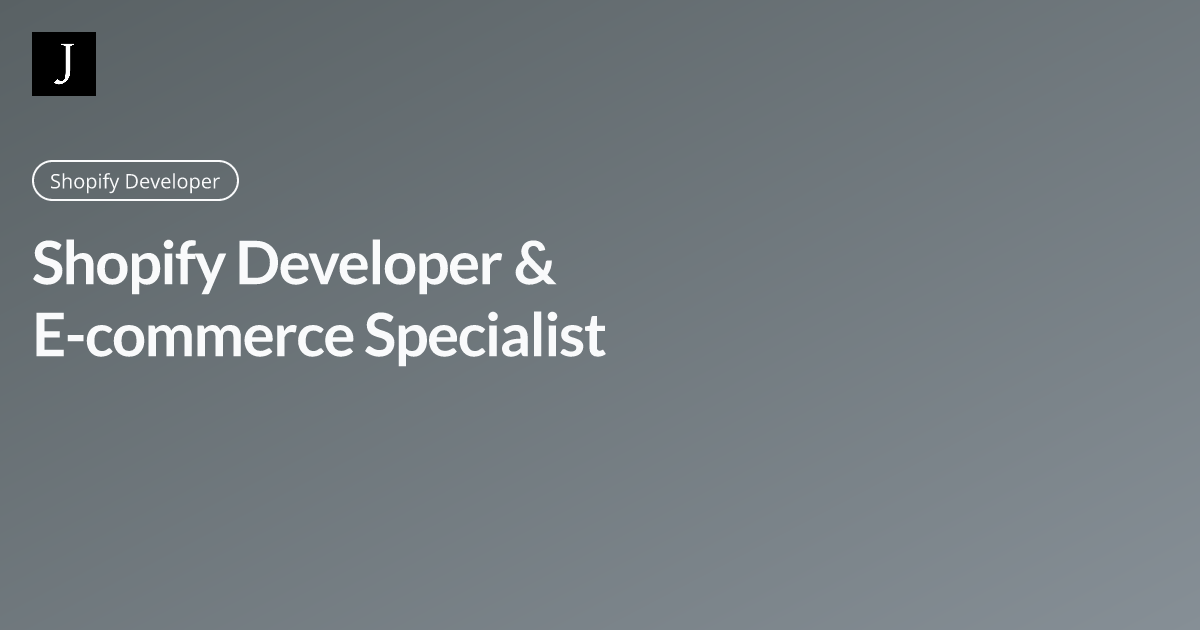
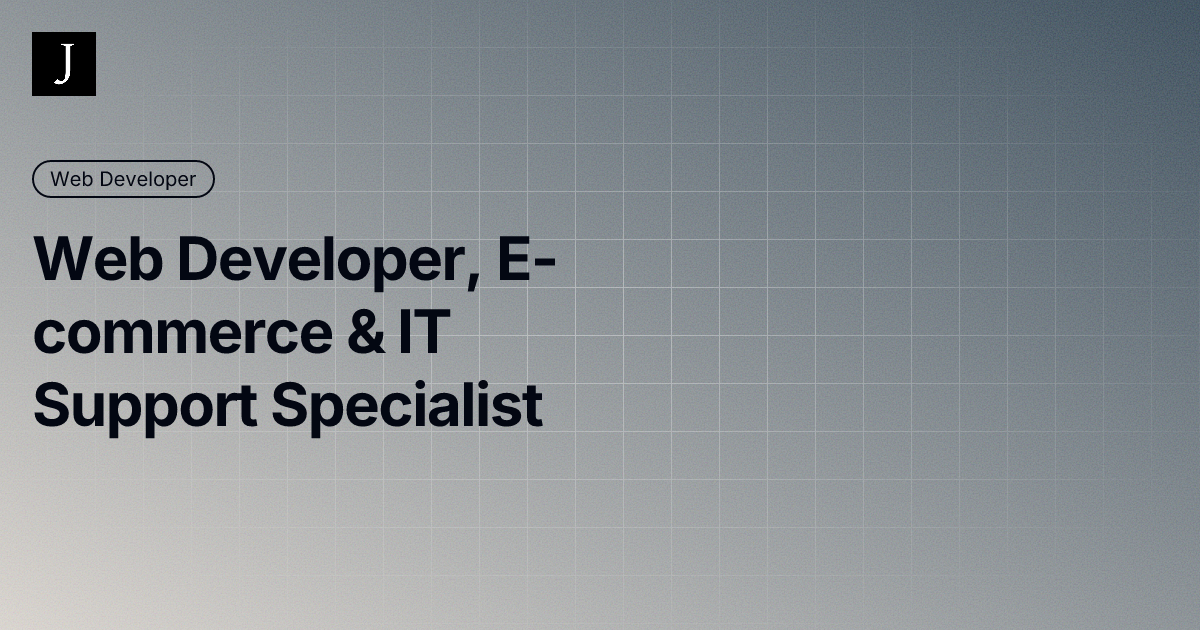
Updated the site with latest CV

diff --git a/index.html b/index.html
@@ -2,24 +2,24 @@
 <html class="no-js ss-preload" lang="en">
 <head>
     <meta charset="utf-8">
-    <title>Joy Das Shanta — Shopify Developer & E-commerce Specialist</title>
+    <title>Joy Das Shanta — Web Developer, IT Support & E-commerce Specialist</title>
 
-    <meta name="description" content="Shopify developer with experience building high-performance e-commerce stores, custom themes, Shopify Plus features, and scalable integrations. I also work with Laravel, APIs, and automation to create fast, reliable and conversion-focused digital experiences.">
+    <meta name="description" content="Web developer with experience building high-performance Shopify e-commerce stores, custom themes, Shopify Plus features, and scalable integrations. I also work with Laravel, APIs, and automation to create fast, reliable and conversion-focused digital experiences.">
 
     <meta name="author" content="Joy Das Shanta">
     <meta name="viewport" content="width=device-width, initial-scale=1">
 
     <!-- Open Graph / Social Preview -->
-    <meta property="og:title" content="Joy Das Shanta — Shopify Developer & E-commerce Specialist">
-    <meta property="og:description" content="Shopify developer building high-performance e-commerce stores, custom themes, Shopify Plus features, and scalable integrations — with additional expertise in Laravel, APIs, and automation.">
+    <meta property="og:title" content="Joy Das Shanta — Web Developer, IT Support & E-commerce Specialist">
+    <meta property="og:description" content="Web developer building high-performance Shopify e-commerce stores, custom themes, Shopify Plus features, and scalable integrations — with additional expertise in Laravel, APIs, and automation.">
     <meta property="og:type" content="website">
     <meta property="og:url" content="https://joydascsepuc.github.io/">
     <meta property="og:image" content="https://joydascsepuc.github.io/preview.png">
 
     <!-- Twitter Card -->
     <meta name="twitter:card" content="summary_large_image">
-    <meta name="twitter:title" content="Joy Das Shanta — Shopify Developer & E-commerce Specialist">
-    <meta name="twitter:description" content="Shopify developer specializing in custom themes, Shopify Plus, e-commerce performance, and Laravel-powered integrations and automation.">
+    <meta name="twitter:title" content="Joy Das Shanta — Web Developer, IT Support & E-commerce Specialist">
+    <meta name="twitter:description" content="Web developer specializing Shopify, Shopify Plus, e-commerce performance, and Laravel-powered integrations and automation.">
     <meta name="twitter:image" content="https://joydascsepuc.github.io/preview.png">
 
     <link rel="stylesheet" href="assets/css/vendor.css">
@@ -76,9 +76,9 @@
                         </div>
                         <h1 class="text-huge-title">
                             I am Joy, <br>
-                            a Shopify Developer <br>
-                            & Full Stack <br>
-                            Engineer based <br>
+                            a Web Developer <br>
+                            & E-commerece <br>
+                            Specialist based <br>
                             in Somewhere.
                         </h1>
                     </div>
@@ -111,13 +111,13 @@
                                 About
                             </h2>
                             <p class="attention-getter" data-animate-el>
-                                A developer blending Shopify, Laravel, and IT skills to turn ideas
+                                A developer blending Shopify, Laravel, and IT Support skills to turn ideas
                                 into working solutions. I enjoy building stores, apps, and systems
                                 that just work, experimenting with new tools, and solving tricky
                                 problems - sometimes before my TEA (Not Coffee; 😮💨) kicks in. Curious?
                                 Check out my projects!
                             </p>
-                            <a href="assets/JoyDas_ShopifyDeveloper.pdf" download="JoyDas_ShopifyDeveloper.pdf" target="_blank" class="btn btn--medium u-fullwidth" data-animate-el>Download CV</a>
+                            <a href="assets/JoyDas_WebDeveloper.pdf" download="JoyDas_WebDeveloper.pdf" target="_blank" class="btn btn--medium u-fullwidth" data-animate-el>Download CV</a>
                         </div>
                     </div>
                 </div>
@@ -589,7 +589,7 @@
         <footer class="s-footer">
             <div class="row">
                 <div class="column ss-copyright">
-                    <span>© Copyright Joy 2025</span>
+                    <span>© Copyright Joy 2026</span>
                 </div>
                 <div class="ss-go-top">
                     <a class="smoothscroll" title="Back to Top" href="#top">